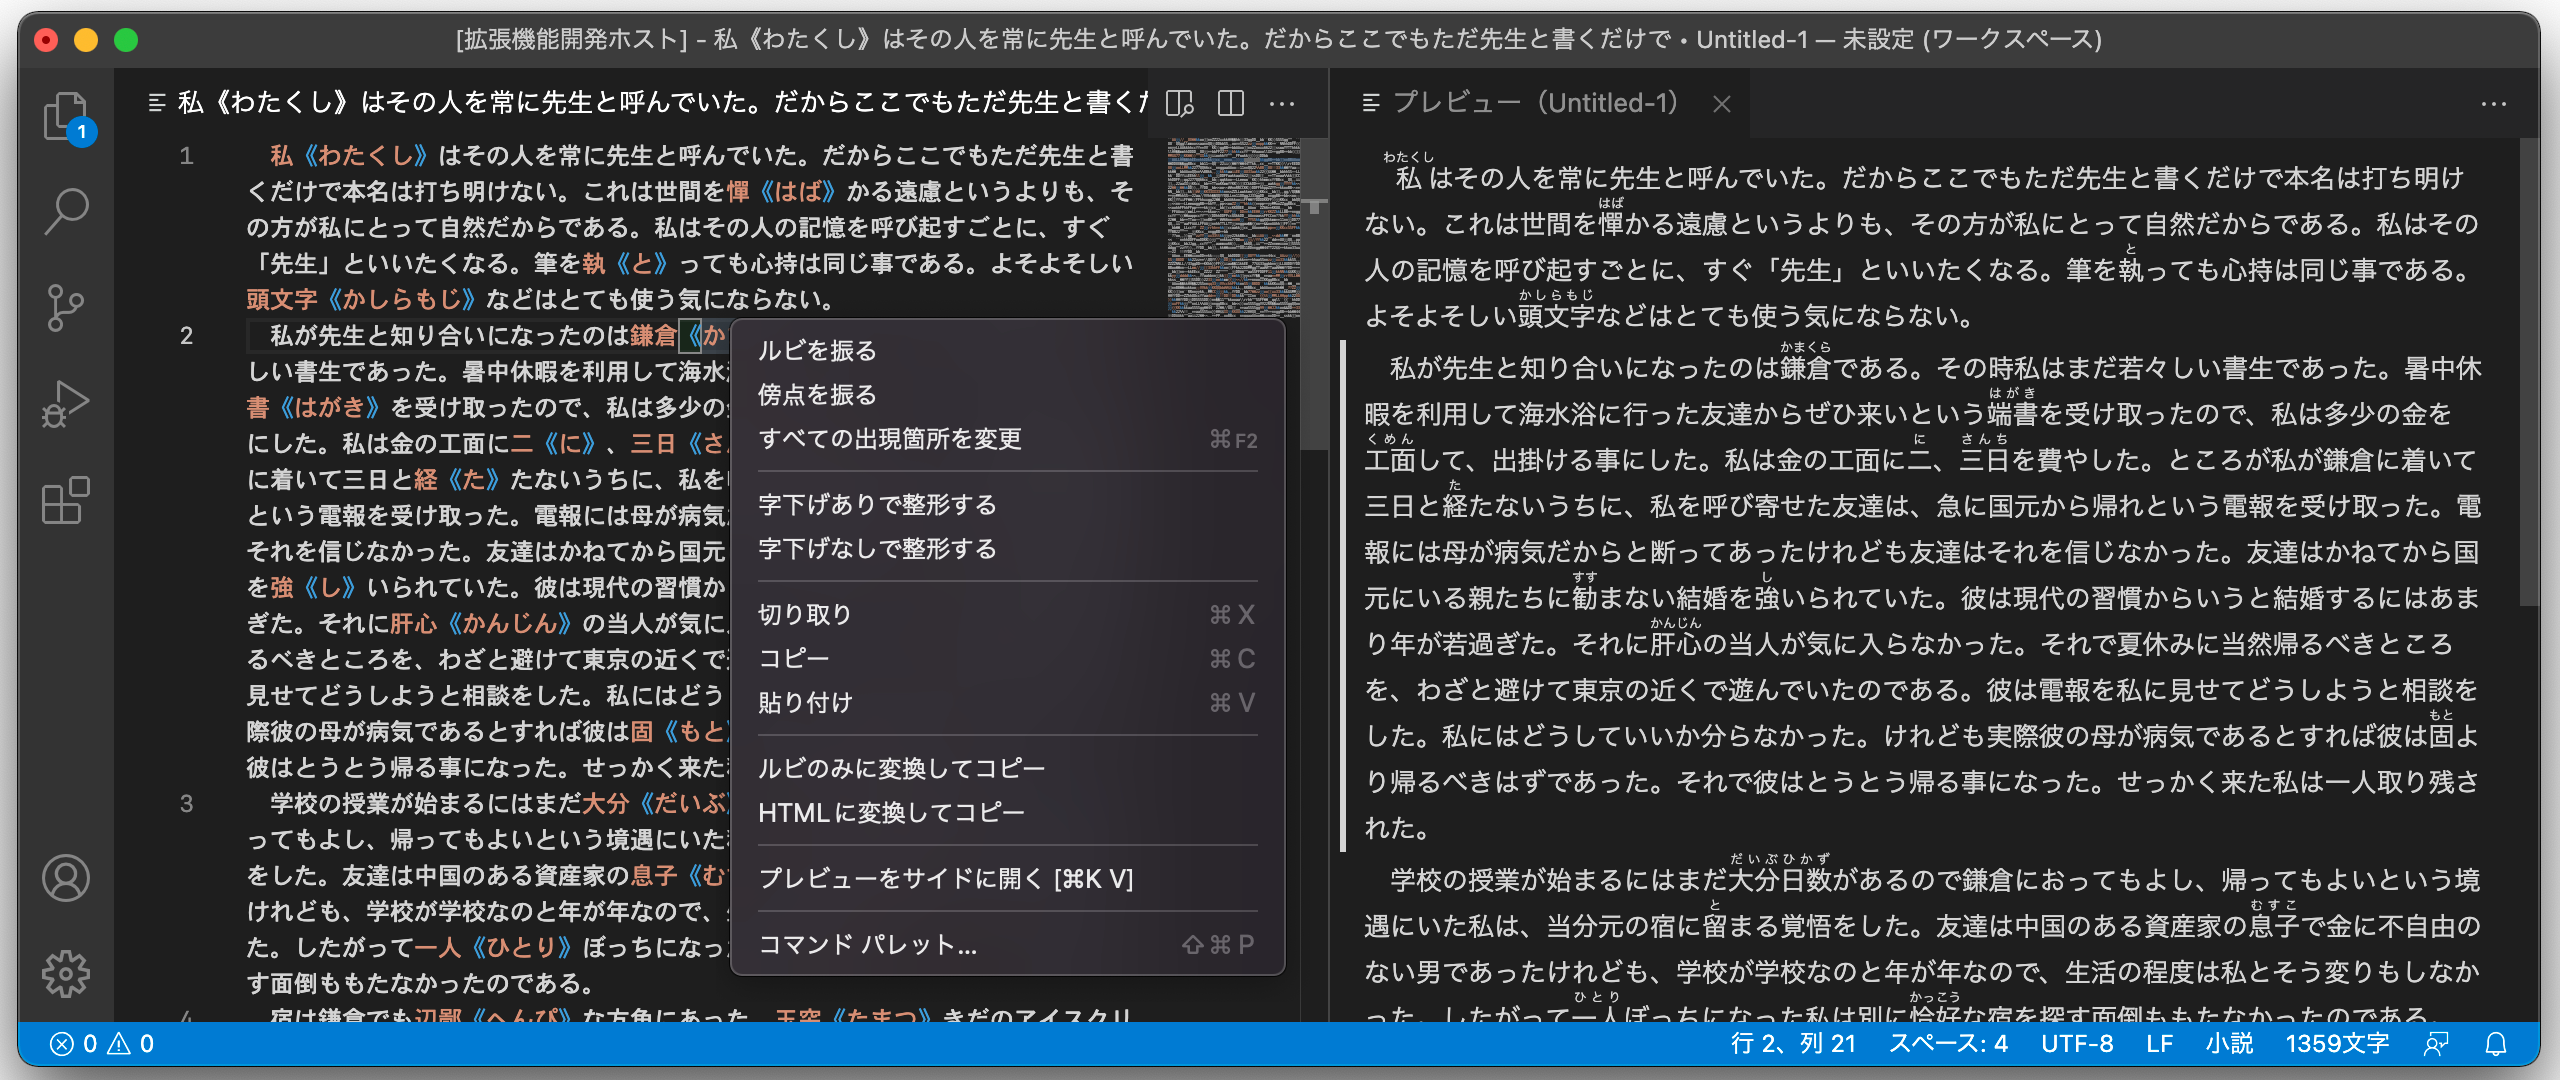
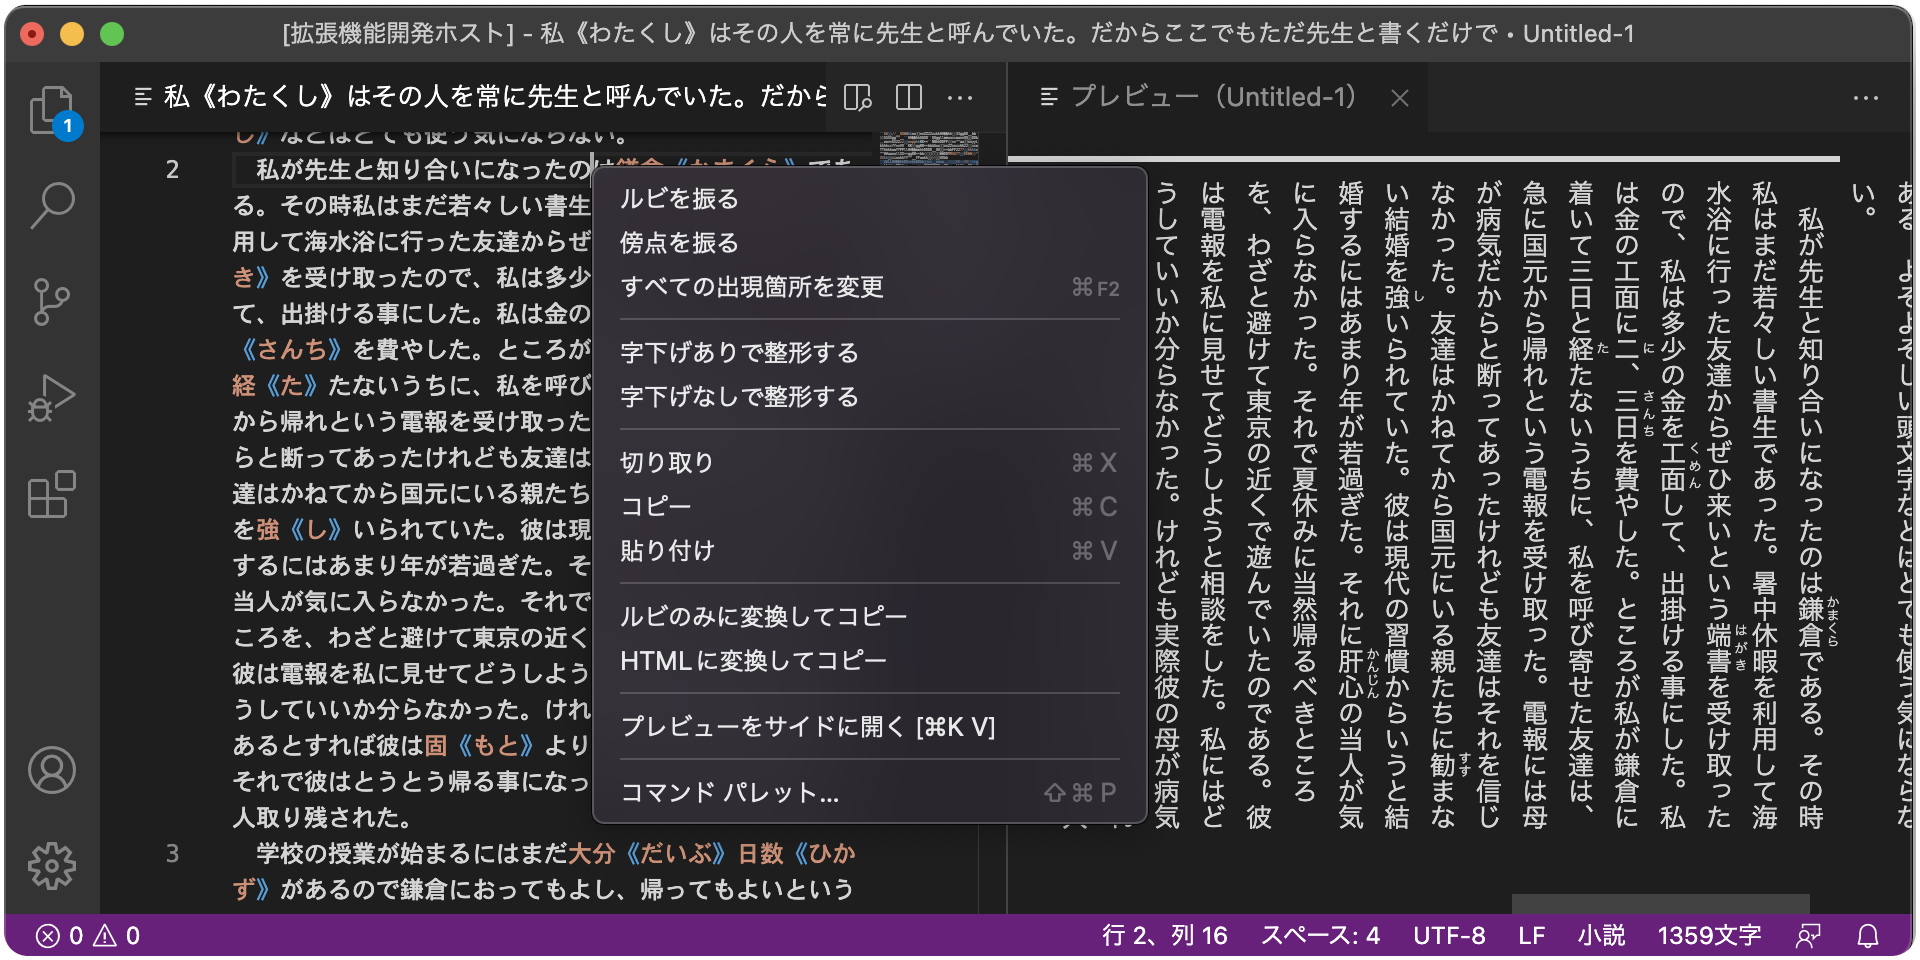
update `README.md`に縦書きについての記載を追加

diff --git a/README.md b/README.md
@@ -30,16 +30,27 @@ Visual Studio Codeで日本語の小説を書くための拡張機能です。
 | 拡張子 | エディターの言語 | ルビと傍点 | プレビュー | 字数カウント | 字下げ揃え |
 | --- | --- | :-: | :-: | :-: | :-: |
 | `.txt` | 小説 (`japanese-novel`) | ✅ | ✅ | ✅ | ✅ |
-| `.md` | Markdown (`markdown`) | ✅ | ✅ | - | - |
+| `.md` | Markdown (`markdown`) | ✅ | 横書きのみ | - | - |
 
 拡張子とエディターの言語の対応づけはVS Codeの設定で変更することが可能です。
 
+## 縦書きプレビュー
+
+テキストファイルのプレビューは設定から縦書きにすることができます。
+
+![縦書き設定画面のスクリーンショット](resources/screenshot-settings-vertical.png)
+
+その際、最大幅を`40rem`のようにフォントサイズと相対的に設定しておくことで、一行の文字数を擬似的に設定することができます。
+
+![最大幅設定画面のスクリーンショット](resources/screenshot-settings-max-width.png)
+
 ## カスタマイズ
 
-プレビューについては設定からフォント、文字サイズ、行の高さを簡単に変更できるほか、カスタムCSSを追加することもできます。
+テキストファイルのプレビューについては設定からフォント、文字サイズ、行の高さ、最大幅を簡単に変更できるほか、カスタムCSSを追加することもできます。
 
 ```html
-<div class="preview-container">
+<!-- 縦書きの場合は`preview-vertical`↓ -->
+<div class="preview-container preview-horizontal">
 <p>　文章。</p>
 <p><ruby>漢字<rt>かんじ</rt></ruby></p>
 <p><em><span>傍</span><span>点</span></em></p>
